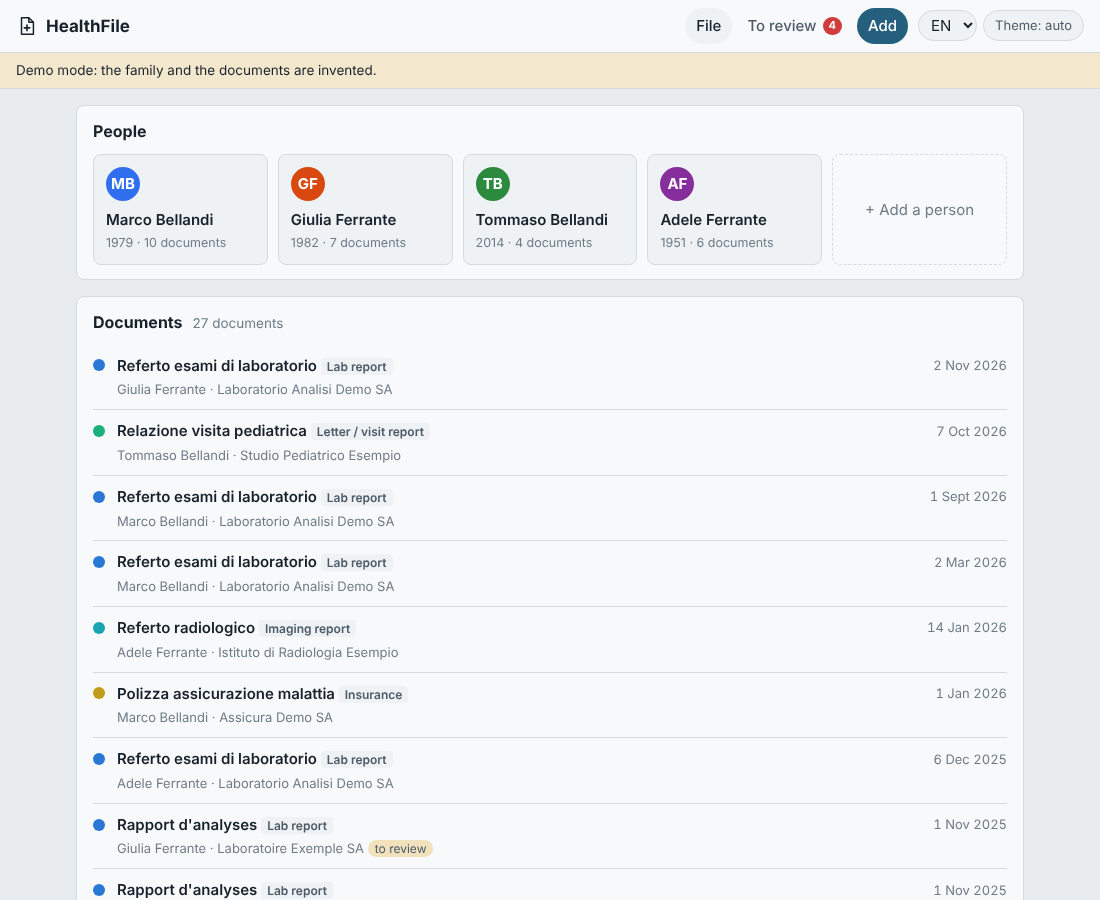
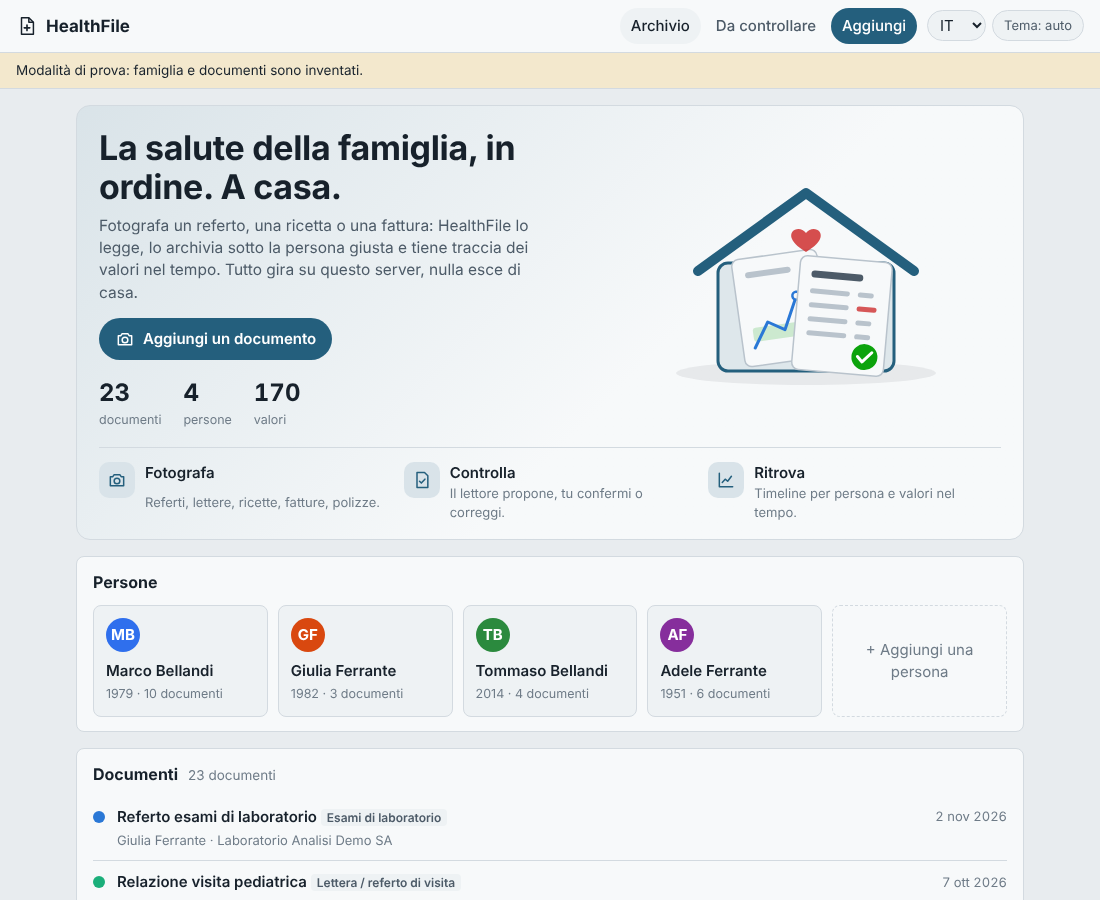
Home: a welcome block with title, one-line purpose, counts, three steps and a drawn illustration
Inline SVG built in the page (no image files, CSP unchanged), light and dark,
stacked on phones. Strings in it/fr/en.

Claude-Session: https://claude.ai/code/session_01YN3wxVLHSU6wcHMEMiM3Lc

diff --git a/public/app.js b/public/app.js
@@ -178,7 +178,60 @@ function renderHome() {
   const docs = el('section', { class: 'card' },
     el('h2', {}, t('timeline.title'), el('span', { class: 'sub', text: t('people.docs', { n: state.docs.length }) })),
     state.docs.length ? el('ul', { class: 'list' }, state.docs.slice(0, 60).map(docItem)) : el('p', { class: 'empty', text: t('timeline.empty') }));
-  return [people, docs];
+  return [hero(), people, docs];
+}
+
+// The welcome block: title, what it does in one sentence, the numbers, three steps
+function hero() {
+  const c = state.status?.counts ?? {};
+  const filed = c.documents?.filed ?? 0;
+  const toReview = state.docs.filter((d) => d.state === 'review' || d.state === 'failed').length;
+  const stat = (n, key) => el('div', { class: 'stat' }, el('span', { class: 'num', text: fmtNumber(n) }), el('span', { class: 'lbl', text: t(key) }));
+  const step = (icon, title, text) => el('li', { class: 'step' }, el('span', { class: 'ic' }, icon), el('span', { class: 'st', text: t(title) }), el('span', { class: 'sd', text: t(text) }));
+  return el('section', { class: 'hero' },
+    el('div', { class: 'hero-text' },
+      el('h1', { text: t('hero.title') }),
+      el('p', { class: 'lead', text: t('hero.lead') }),
+      el('div', { class: 'hero-actions' },
+        el('a', { class: 'btn', href: '#/add' }, iconCamera(), t('hero.cta')),
+        toReview ? el('a', { class: 'btn ghost', href: '#/review', text: t('hero.review', { n: toReview }) }) : null),
+      el('div', { class: 'stats' }, stat(filed, 'hero.stat.docs'), stat(c.people ?? state.people.length, 'hero.stat.people'), stat(c.measurements ?? 0, 'hero.stat.values'))),
+    el('div', { class: 'hero-art', 'aria-hidden': 'true' }, illustration()),
+    el('ol', { class: 'steps' },
+      step(iconCamera(), 'hero.step1', 'hero.step1d'),
+      step(iconCheck(), 'hero.step2', 'hero.step2d'),
+      step(iconChart(), 'hero.step3', 'hero.step3d')));
+}
+
+const stroke = { fill: 'none', stroke: 'currentColor', 'stroke-width': '1.8', 'stroke-linecap': 'round', 'stroke-linejoin': 'round' };
+const iconCamera = () => svg('svg', { viewBox: '0 0 24 24', width: 20, height: 20, 'aria-hidden': 'true' }, svg('path', { ...stroke, d: 'M4 8h3l1.6-2.4h6.8L17 8h3v11H4z' }), svg('circle', { ...stroke, cx: 12, cy: 13.2, r: 3.4 }));
+const iconCheck = () => svg('svg', { viewBox: '0 0 24 24', width: 20, height: 20, 'aria-hidden': 'true' }, svg('path', { ...stroke, d: 'M6 3h9l4 4v14H6z' }), svg('path', { ...stroke, d: 'M9 13.5l2.2 2.2L15.5 11' }));
+const iconChart = () => svg('svg', { viewBox: '0 0 24 24', width: 20, height: 20, 'aria-hidden': 'true' }, svg('path', { ...stroke, d: 'M4 4v16h16' }), svg('path', { ...stroke, d: 'M7.5 15l3.5-4 3 2.5 4.5-6' }));
+
+/** A small house holding a stack of documents, a value chart and a check: drawn here, no image files. */
+function illustration() {
+  const S = (tag, a, ...c) => svg(tag, a, ...c);
+  return S('svg', { viewBox: '0 0 320 240', class: 'art' },
+    // ground and house
+    S('ellipse', { cx: 160, cy: 214, rx: 130, ry: 12, class: 'a-shadow' }),
+    S('path', { d: 'M52 112 L160 34 L268 112', class: 'a-roof' }),
+    S('rect', { x: 72, y: 104, width: 176, height: 108, rx: 10, class: 'a-house' }),
+    // back document with a chart
+    S('g', { transform: 'rotate(-8 128 150)' },
+      S('rect', { x: 92, y: 96, width: 86, height: 108, rx: 7, class: 'a-paper' }),
+      S('rect', { x: 104, y: 110, width: 46, height: 6, rx: 3, class: 'a-ink' }),
+      S('rect', { x: 104, y: 166, width: 62, height: 14, rx: 3, class: 'a-band' }),
+      S('path', { d: 'M104 186 L120 162 L136 172 L152 140 L166 150', class: 'a-line' }),
+      S('circle', { cx: 152, cy: 140, r: 4, class: 'a-dot' })),
+    // front document with rows and a check
+    S('g', { transform: 'rotate(5 196 156)' },
+      S('rect', { x: 150, y: 100, width: 92, height: 114, rx: 7, class: 'a-paper' }),
+      S('rect', { x: 162, y: 114, width: 52, height: 7, rx: 3.5, class: 'a-ink strong' }),
+      ...[132, 146, 160, 174].map((y, i) => S('g', {}, S('rect', { x: 162, y, width: 40, height: 5, rx: 2.5, class: 'a-ink' }), S('rect', { x: 210, y, width: i === 1 ? 20 : 16, height: 5, rx: 2.5, class: i === 1 ? 'a-flag' : 'a-ink' }))),
+      S('circle', { cx: 222, cy: 196, r: 13, class: 'a-check-bg' }),
+      S('path', { d: 'M215 196 l5 5 l9 -10', class: 'a-check' })),
+    // a small heart above the door line
+    S('path', { d: 'M160 74 c-6 -8 -18 -3 -14 6 c2 5 8 9 14 13 c6 -4 12 -8 14 -13 c4 -9 -8 -14 -14 -6 z', class: 'a-heart' }));
 }
 
 function addPersonDialog() {

diff --git a/public/style.css b/public/style.css
@@ -188,3 +188,43 @@ details > summary { cursor: pointer; font-weight: 600; margin: 6px 0; }
 .vals td:nth-child(2) { min-width: 70px; }
 .vals td:nth-child(3) { min-width: 80px; }
 .vals td:nth-child(4) { min-width: 110px; }
+
+/* home: welcome block */
+.hero { display: grid; grid-template-columns: minmax(0, 1.25fr) minmax(0, 1fr); gap: 8px 24px; align-items: center; padding: 22px 22px 18px; border-radius: 14px; border: 1px solid var(--rule);
+  background: linear-gradient(135deg, color-mix(in srgb, var(--accent) 14%, var(--surface)) 0%, var(--surface) 60%); }
+.hero h1 { margin: 0 0 8px; font-size: clamp(24px, 4.2vw, 34px); line-height: 1.15; letter-spacing: -0.01em; }
+.hero .lead { margin: 0 0 14px; color: var(--ink-2); font-size: 15.5px; max-width: 46ch; }
+.hero-actions { display: flex; flex-wrap: wrap; gap: 8px; margin-bottom: 16px; }
+.btn { display: inline-flex; align-items: center; gap: 8px; padding: 10px 16px; border-radius: 999px; background: var(--accent); color: var(--accent-ink); font-weight: 600; text-decoration: none; }
+.btn:hover { filter: brightness(1.08); }
+.btn.ghost { background: transparent; color: var(--ink); border: 1px solid var(--rule-strong); }
+.stats { display: flex; gap: 22px; flex-wrap: wrap; }
+.stat { display: grid; }
+.stat .num { font-size: 24px; font-weight: 700; font-variant-numeric: tabular-nums; }
+.stat .lbl { font-size: 12.5px; color: var(--ink-3); }
+.hero-art { display: flex; justify-content: center; }
+.art { width: 100%; max-width: 320px; height: auto; }
+.art .a-shadow { fill: var(--ink); opacity: 0.07; }
+.art .a-roof { fill: none; stroke: var(--accent); stroke-width: 10; stroke-linecap: round; stroke-linejoin: round; }
+.art .a-house { fill: color-mix(in srgb, var(--accent) 12%, var(--surface)); stroke: var(--accent); stroke-width: 3; }
+.art .a-paper { fill: var(--surface); stroke: var(--rule-strong); stroke-width: 1.5; }
+.art .a-ink { fill: var(--rule-strong); }
+.art .a-ink.strong { fill: var(--ink-2); }
+.art .a-flag { fill: var(--critical); opacity: 0.85; }
+.art .a-band { fill: var(--good); opacity: 0.18; }
+.art .a-line { fill: none; stroke: var(--spark); stroke-width: 3; stroke-linecap: round; stroke-linejoin: round; }
+.art .a-dot { fill: var(--surface); stroke: var(--spark); stroke-width: 2.5; }
+.art .a-check-bg { fill: var(--good); }
+.art .a-check { fill: none; stroke: #fff; stroke-width: 3; stroke-linecap: round; stroke-linejoin: round; }
+.art .a-heart { fill: var(--critical); opacity: 0.9; }
+.steps { grid-column: 1 / -1; list-style: none; margin: 10px 0 0; padding: 14px 0 0; border-top: 1px solid var(--rule); display: grid; grid-template-columns: repeat(3, minmax(0, 1fr)); gap: 12px; }
+.step { display: grid; grid-template-columns: auto 1fr; gap: 0 10px; align-items: start; }
+.step .ic { grid-row: span 2; width: 36px; height: 36px; border-radius: 10px; display: grid; place-items: center; background: color-mix(in srgb, var(--accent) 14%, var(--surface)); color: var(--accent); }
+.step .st { font-weight: 600; }
+.step .sd { color: var(--ink-3); font-size: 13px; }
+@media (max-width: 700px) {
+  .hero { grid-template-columns: 1fr; padding: 18px 16px 14px; }
+  .hero-art { order: -1; }
+  .art { max-width: 220px; }
+  .steps { grid-template-columns: 1fr; gap: 10px; }
+}

diff --git a/public/i18n.js b/public/i18n.js
@@ -12,6 +12,19 @@ export const dictionaries = {
   it: {
     'app.name': 'HealthFile',
     'app.tagline': 'I documenti sanitari della famiglia, letti e archiviati in casa.',
+    'hero.title': 'La salute della famiglia, in ordine. A casa.',
+    'hero.lead': 'Fotografa un referto, una ricetta o una fattura: HealthFile lo legge, lo archivia sotto la persona giusta e tiene traccia dei valori nel tempo. Tutto gira su questo server, nulla esce di casa.',
+    'hero.cta': 'Aggiungi un documento',
+    'hero.review': { one: '1 documento da controllare', other: '{n} documenti da controllare' },
+    'hero.stat.docs': 'documenti',
+    'hero.stat.people': 'persone',
+    'hero.stat.values': 'valori',
+    'hero.step1': 'Fotografa',
+    'hero.step1d': 'Referti, lettere, ricette, fatture, polizze.',
+    'hero.step2': 'Controlla',
+    'hero.step2d': 'Il lettore propone, tu confermi o correggi.',
+    'hero.step3': 'Ritrova',
+    'hero.step3d': 'Timeline per persona e valori nel tempo.',
     'nav.home': 'Archivio',
     'nav.add': 'Aggiungi',
     'nav.review': 'Da controllare',
@@ -132,6 +145,19 @@ export const dictionaries = {
   fr: {
     'app.name': 'HealthFile',
     'app.tagline': 'Les documents de santé de la famille, lus et classés à la maison.',
+    'hero.title': 'La santé de la famille, en ordre. À la maison.',
+    'hero.lead': 'Photographiez un rapport, une ordonnance ou une facture : HealthFile le lit, le classe sous la bonne personne et suit les valeurs dans le temps. Tout tourne sur ce serveur, rien ne sort de la maison.',
+    'hero.cta': 'Ajouter un document',
+    'hero.review': { one: '1 document à vérifier', other: '{n} documents à vérifier' },
+    'hero.stat.docs': 'documents',
+    'hero.stat.people': 'personnes',
+    'hero.stat.values': 'valeurs',
+    'hero.step1': 'Photographier',
+    'hero.step1d': 'Rapports, lettres, ordonnances, factures, polices.',
+    'hero.step2': 'Vérifier',
+    'hero.step2d': 'Le lecteur propose, vous confirmez ou corrigez.',
+    'hero.step3': 'Retrouver',
+    'hero.step3d': 'Chronologie par personne et valeurs dans le temps.',
     'nav.home': 'Dossier',
     'nav.add': 'Ajouter',
     'nav.review': 'À vérifier',
@@ -252,6 +278,19 @@ export const dictionaries = {
   en: {
     'app.name': 'HealthFile',
     'app.tagline': "The family's health records, read and filed at home.",
+    'hero.title': "The family's health, in order. At home.",
+    'hero.lead': 'Photograph a report, a prescription or an invoice: HealthFile reads it, files it under the right person and tracks the values over time. Everything runs on this server; nothing leaves the house.',
+    'hero.cta': 'Add a document',
+    'hero.review': { one: '1 document to review', other: '{n} documents to review' },
+    'hero.stat.docs': 'documents',
+    'hero.stat.people': 'people',
+    'hero.stat.values': 'values',
+    'hero.step1': 'Photograph',
+    'hero.step1d': 'Reports, letters, prescriptions, invoices, policies.',
+    'hero.step2': 'Review',
+    'hero.step2d': 'The reader proposes, you confirm or correct.',
+    'hero.step3': 'Find',
+    'hero.step3d': 'A timeline per person and values over time.',
     'nav.home': 'File',
     'nav.add': 'Add',
     'nav.review': 'To review',
